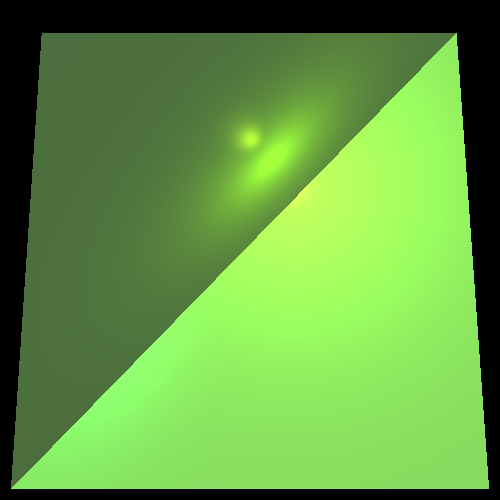
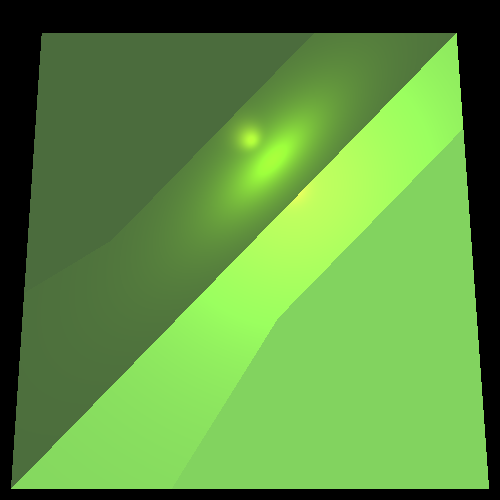
stage 7.1 shadow

diff --git a/src/renderer/SimpleRayTracer.java b/src/renderer/SimpleRayTracer.java
@@ -16,15 +16,19 @@ import static primitives.Util.alignZero;
  */
 public class SimpleRayTracer extends RayTracerBase {
 
+
+    private static final double DELTA = 0.1; // Maximum recursion depth for color calculation
+
     /**
      * Constructor for {@code SimpleRayTracer}.
      *
-     * @param scene  the scene to be rendered, containing geometries and lighting
-    //* @param  a placeholder parameter representing the ray tracer type (currently unused)
+     * @param scene the scene to be rendered, containing geometries and lighting
+     *              //* @param  a placeholder parameter representing the ray tracer type (currently unused)
      */
     public SimpleRayTracer(Scene scene, RayTracerType simple) {
         super(scene);
     }
+
     public SimpleRayTracer(Scene scene) {
         super(scene);
     }
@@ -50,7 +54,7 @@ public class SimpleRayTracer extends RayTracerBase {
         Intersection closestintersection = ray.findClosestIntersection(intersections);
 
         // Return the color at the closest intersection point
-        return calcColor(closestintersection,ray);
+        return calcColor(closestintersection, ray);
     }
 
     /**
@@ -77,13 +81,13 @@ public class SimpleRayTracer extends RayTracerBase {
     }
 
 
-/// need check
+    /// need check
     public boolean preprocessIntersection(Intersection intersection, Vector rayDir) {
         intersection.rayDir = rayDir;
         intersection.normal = intersection.geometry.getNormal(intersection.point);
 
         intersection.scaleNR = alignZero(intersection.rayDir.dotProduct(intersection.normal));
-        if (intersection.scaleNR ==0)
+        if (intersection.scaleNR == 0)
             return false;
         return true;
     }
@@ -111,20 +115,18 @@ public class SimpleRayTracer extends RayTracerBase {
 
         for (LightSource lightSource : scene.light) {
             {
-                if(!setLightSource(intersection, lightSource)) {
+                if (!setLightSource(intersection, lightSource)||!unshaded(intersection, lightSource)) {
                     continue;
                 }
 
-                // Compute light intensity at the intersection point
-                Color iL = lightSource.getIntensity(intersection.point);
 
-                // Add contribution from diffusive and specular effects
-                //color = color.add(iL.scale(calcDiffusive(intersection))).add(iL.scale(calcSpecular(intersection)));
+                Color iL = lightSource.getIntensity(intersection.point);
                 color = color.add(iL.scale(calcDiffusive(intersection))).add(iL.scale(calcSpecular(intersection)));
             }
         }
         return color;
     }
+
     /**
      * Calculates the specular component of the light at the intersection point.
      *
@@ -141,6 +143,7 @@ public class SimpleRayTracer extends RayTracerBase {
 
         return intersection.material.Ks.scale(specularFactor);
     }
+
     /**
      * Calculates the diffusive component of the light at the intersection point.
      *
@@ -155,6 +158,30 @@ public class SimpleRayTracer extends RayTracerBase {
     }
 
 
+    private boolean unshaded(Intersection intersection, LightSource lightSource) {
 
+        Vector pointToLight = lightSource.getL(intersection.point).scale(-1);
+        Vector delta = intersection.normal.scale(intersection.scaleNL < 0 ? DELTA : -DELTA);
+        Ray shadowRay = new Ray(intersection.point.add(delta), pointToLight);
+        // Check if the shadow ray intersects with any geometry in the scene
+        List<Intersection> intersections = scene.geometries.calculateIntersectionsHelper(shadowRay);
+        if (intersections == null||intersections.isEmpty()) {
+            return true; // No intersections, shaded
+        }
+        double minDistance = lightSource.getDistance(intersection.point);
+        for (Intersection shadowIntersection: intersections) {
 
+            if (shadowIntersection.geometry == intersection.geometry) {
+                continue; // Ignore the intersection with the same geometry
+            }
+            double dis = lightSource.getDistance(shadowIntersection.point);//.distance(intersection.point);
+            double distance = shadowIntersection.point.distance(intersection.point);
+            if (dis > minDistance) {
+                return true; // Shaded by another geometry
+            }
+
+        }
+
+        return false; // Not shaded
+    }
 }

diff --git a/unittest/renderer/ShadowTests.java b/unittest/renderer/ShadowTests.java
@@ -1,0 +1,113 @@
+package renderer;
+
+import static java.awt.Color.BLUE;
+
+import org.junit.jupiter.api.Test;
+
+import geometries.*;
+import lighting.*;
+import primitives.*;
+import scene.Scene;
+
+/**
+ * Testing basic shadows
+ * @author Dan Zilberstein
+ */
+class ShadowTests {
+   /** Default constructor to satisfy JavaDoc generator */
+   ShadowTests() { /* to satisfy JavaDoc generator */ }
+
+   /** Scene of the tests */
+   private final Scene          scene      = new Scene("Test scene");
+   /** Camera builder of the tests */
+   private final Camera.Builder camera     = Camera.getBuilder()
+      .setLocation(new Point(0, 0, 1000))
+      .setDirection(Point.ZERO, Vector.AXIS_Y)
+      .setVpDistance(1000)
+      .setVpSize(200, 200)
+      .setRayTracer(scene, RayTracerType.SIMPLE);
+
+   /** The sphere in the tests */
+   private final Intersectable  sphere     = new Sphere(60d, new Point(0, 0, -200))
+      .setEmission(new Color(BLUE))
+      .setMaterial(new Material().setKD(0.5).setKS(0.5).setShininess(30));
+   /** The material of the triangles in the tests */
+   private final Material       trMaterial = new Material().setKD(0.5).setKS(0.5).setShininess(30);
+
+   /**
+    * Helper function for the tests in this module
+    * @param pictName     the name of the picture generated by a test
+    * @param triangle     the triangle in the test
+    * @param spotLocation the spotlight location in the test
+    */
+   private void sphereTriangleHelper(String pictName, Triangle triangle, Point spotLocation) {
+      scene.geometries.add(sphere, triangle.setEmission(new Color(BLUE)).setMaterial(trMaterial));
+      scene.light //
+         .add(new SpotLight(new Color(400, 240, 0), spotLocation, new Vector(1, 1, -3)) //
+            .setKl(1E-5).setKq(1.5E-7));
+      camera
+         .setResolution(400, 400) //
+         .build() //
+         .renderImage() //
+         .writeToImage(pictName);
+   }
+
+   /** Produce a picture of a sphere and triangle with point light and shade */
+   @Test
+   void sphereTriangleMove1() {
+      sphereTriangleHelper("shadowSphereTriangleMove2", //
+              new Triangle(new Point(-60, -30, 0), new Point(-30, -60, 0), new Point(-58, -58, -4)), //
+              new Point(-100, -100, 200));
+   }
+
+   @Test
+   void sphereTriangleMove2() {
+      sphereTriangleHelper("shadowSphereTriangleMove1", //
+              new Triangle(new Point(-50, -20, 0), new Point(-20, -50, 0), new Point(-48, -48, -4)), //
+              new Point(-100, -100, 200));
+   }
+
+   @Test
+   void sphereTriangleSpot1() {
+      sphereTriangleHelper("shadowSphereTriangleSpot1", //
+              new Triangle(new Point(-70, -40, 0), new Point(-40, -70, 0), new Point(-68, -68, -4)), //
+              new Point(-90, -90, 150));
+   }
+
+   @Test
+   void sphereTriangleSpot2() {
+      sphereTriangleHelper("shadowSphereTriangleSpot2", //
+              new Triangle(new Point(-70, -40, 0), new Point(-40, -70, 0), new Point(-68, -68, -4)), //
+              new Point(-80, -80, 100));
+   }
+
+
+   /**
+    * Produce a picture of a two triangles lighted by a spot light with a Sphere
+    * producing a shading
+    */
+   @Test
+   void trianglesSphere() {
+      scene.geometries //
+         .add( //
+              new Triangle(new Point(-150, -150, -115), new Point(150, -150, -135), new Point(75, 75, -150)) //
+                 .setMaterial(new Material().setKS(0.8).setShininess(60)), //
+              new Triangle(new Point(-150, -150, -115), new Point(-70, 70, -140), new Point(75, 75, -150)) //
+                 .setMaterial(new Material().setKS(0.8).setShininess(60)), //
+              new Sphere(30d, new Point(0, 0, -11)) //
+                 .setEmission(new Color(BLUE)) //
+                 .setMaterial(new Material().setKD(0.5).setKS(0.5).setShininess(30)) //
+         );
+      scene.setAmbientLight(new AmbientLight(new Color(38, 38, 38)));
+      scene.light //
+         .add(new SpotLight(new Color(700, 400, 400), new Point(40, 40, 115), new Vector(-1, -1, -4)) //
+            .setKl(4E-4).setKq(2E-5));
+
+      camera//
+         .setResolution(600, 600) //
+         .build() //
+         .renderImage() //
+         .writeToImage("shadowTrianglesSphere");
+   }
+
+}

diff --git a/src/lighting/PointLight.java b/src/lighting/PointLight.java
@@ -43,6 +43,9 @@ public class PointLight extends Light implements LightSource{
     @Override
     public Vector getL(Point point) {
         return point.subtract(position);
-        //return position.subtract(point).normalize();
+    }
+    @Override
+    public double getDistance(Point point) {
+        return position.distance(point);
     }
 }

diff --git a/src/lighting/DirectionalLight.java b/src/lighting/DirectionalLight.java
@@ -23,4 +23,8 @@ public class DirectionalLight extends Light implements LightSource{
         return direction;
         //return direction.normalize();
     }
+    @Override
+    public double getDistance(Point point) {
+        return Double.POSITIVE_INFINITY;
+    }
 }

diff --git a/src/lighting/LightSource.java b/src/lighting/LightSource.java
@@ -5,4 +5,5 @@ import primitives.*;
 public interface LightSource {
     Color getIntensity(Point p);
     Vector getL(Point p);
+    double getDistance(Point point);
 }

diff --git a/src/lighting/SpotLight.java b/src/lighting/SpotLight.java
@@ -58,4 +58,5 @@ public class SpotLight extends PointLight {
 
         return super.getL(point).normalize();
     }
+
 }

diff --git a/src/geometries/Geometries.java b/src/geometries/Geometries.java
@@ -90,5 +90,4 @@ public class Geometries extends Intersectable {
         return intersections;
     }
 
-
 }
